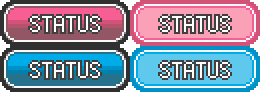
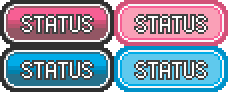
Restore turn order to the main battle info screen

diff --git a/Plugins/Tectonic Battle/Scene/SceneMenus/BattleInfoDisplay.rb b/Plugins/Tectonic Battle/Scene/SceneMenus/BattleInfoDisplay.rb
@@ -84,7 +84,7 @@ class BattleInfoDisplay < SpriteWrapper
 
         # Draw the individual battler selection buttons
         battlerNameX = 8
-        battlerCursorX = 148
+        battlerCursorX = 132
         yourPokemonStartingY = 62
         theirPokemonStartingY = yourPokemonStartingY + 164
         distanceBetweenButtons = 54
@@ -100,11 +100,11 @@ class BattleInfoDisplay < SpriteWrapper
             cursorX = @selected == battlerIndex ? @statusCursorBitmap.width / 2 : 0
             bitmap.blt(battlerCursorX, yPos, @statusCursorBitmap.bitmap,
   				Rect.new(cursorX, 0, @statusCursorBitmap.width / 2, @statusCursorBitmap.height / 2))
-            # if @turnOrder.key?(b.index)
-            #     turnDescription = _INTL("# {1}", @turnOrder[b.index].to_s)
-            #     textToDraw.push([turnDescription, battlerCursorX + 140, yPos + 4, 0, base,
-            #                      shadow,])
-            # end
+            if @turnOrder.key?(b.index)
+                turnDescription = @turnOrder[b.index].to_s
+                textToDraw.push([turnDescription, battlerCursorX + 140, yPos + 4, 0, base,
+                                 shadow,])
+            end
 
             yPos += distanceBetweenButtons
             battlerIndex += 1
@@ -118,11 +118,11 @@ class BattleInfoDisplay < SpriteWrapper
             cursorX = @selected == battlerIndex ? @statusCursorBitmap.width / 2 : 0
             bitmap.blt(battlerCursorX, yPos, @statusCursorBitmap.bitmap,
   				Rect.new(cursorX, @statusCursorBitmap.height / 2, @statusCursorBitmap.width / 2, @statusCursorBitmap.height / 2))
-            # if @turnOrder.key?(b.index)
-            #     turnDescription = _INTL("# {1}", @turnOrder[b.index].to_s)
-            #     textToDraw.push([turnDescription, battlerCursorX + 140, yPos + 4, 0, base,
-            #                      shadow,])
-            # end
+            if @turnOrder.key?(b.index)
+                turnDescription = @turnOrder[b.index].to_s
+                textToDraw.push([turnDescription, battlerCursorX + 140, yPos + 4, 0, base,
+                                 shadow,])
+            end
 
             yPos += distanceBetweenButtons
             battlerIndex += 1
